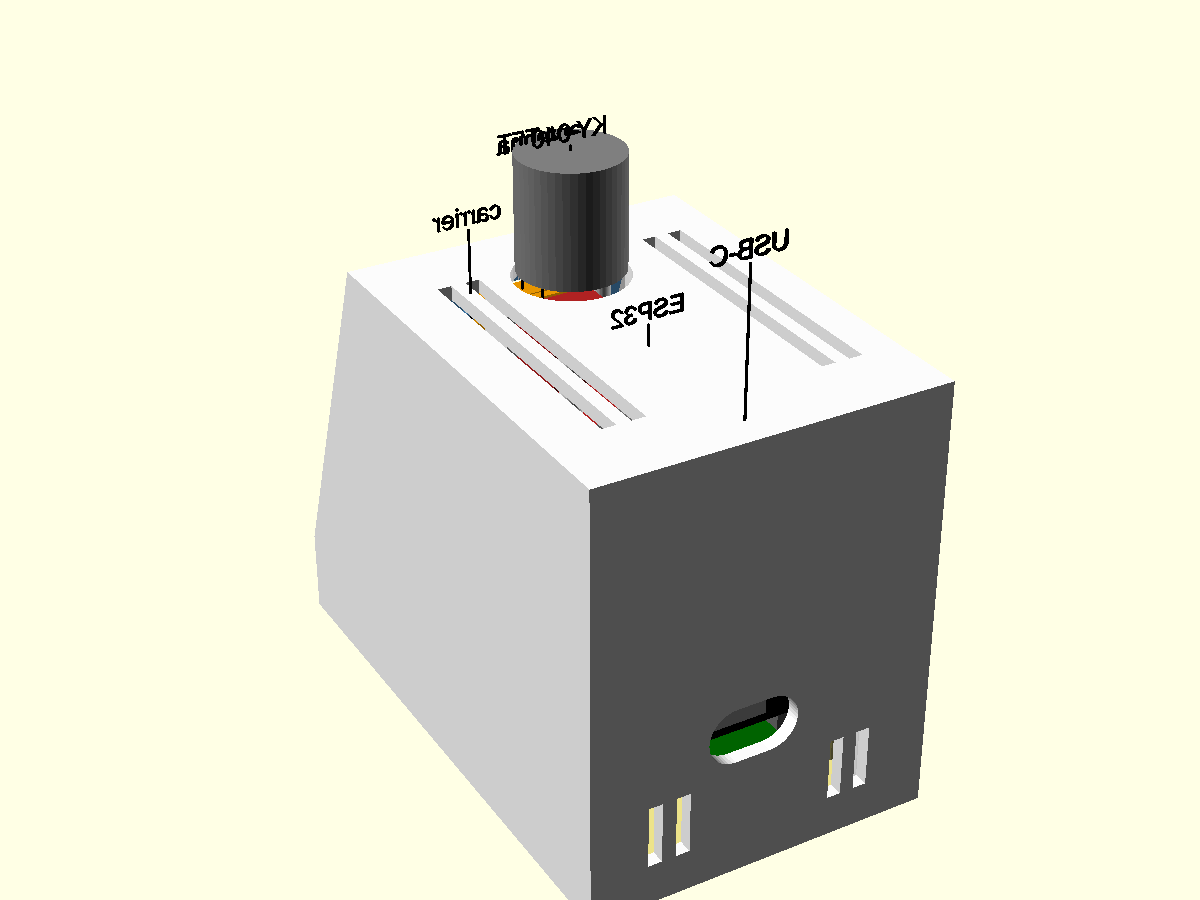
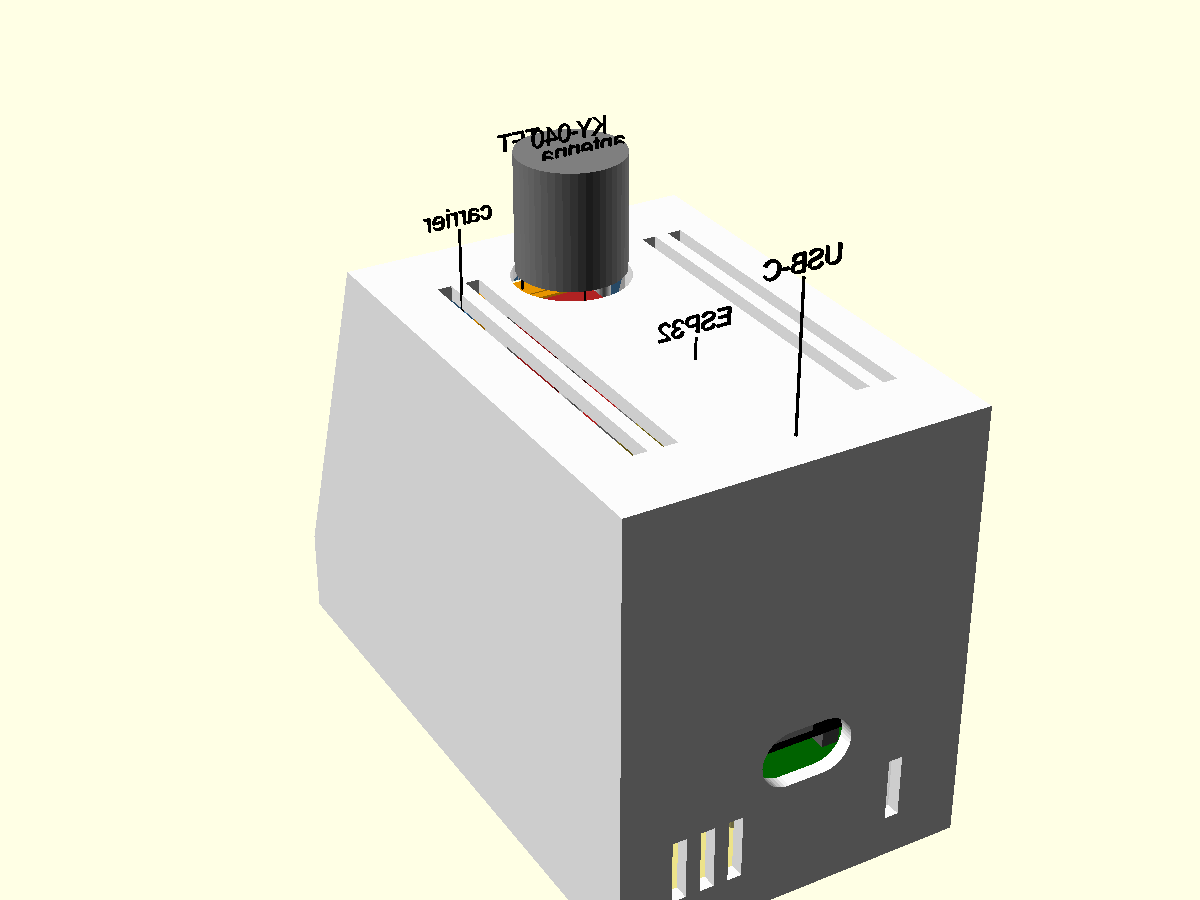
Enclosure: EPLZON 38.1 x 50.8 breadboard-style carrier, no JST sockets, case 89 deep
ESP32 headers in columns A and I (10 pitches, its pin rows), module wires
soldered into the joined rows. 88 is the minimum depth (TFT plug in front,
back bosses behind); 89 leaves 1 mm.

diff --git a/enclosure/cardboard.py b/enclosure/cardboard.py
@@ -187,17 +187,14 @@ def main():
     part(d["perf_x0"], d["perf_y0"], d["perf_w"], d["perf_d"], "carrier", dash, bottom=True, tx=d["perf_w"] - 11)
     part(d["esp_x0"], d["esp_y0"], d["esp_w"], d["esp_l"], "ESP32 (USB at the back)")
     p2.text(M + d["esp_x0"] + 1, fy(d["esp_y0"] + 2), "antenna", 2.5)
-    pp = d["p"]
-    for name, pins, row in (("TFT", 8, 1), ("KNOB", 5, 11)):  # JST-XH sockets, column 0 of the carrier
-        l = (pins - 1) * 2.5 + 4.9
-        cy = d["grid_y0"] + (row + (pins - 1) / 2) * pp
-        p2.rect(M + d["grid_x0"] - 2.9, fy(cy + l / 2), 5.8, l, **solid)
-        p2.text(M + d["grid_x0"] - 2.5, fy(cy - l / 2) - 1.2, name, 2)
+    cx, cy = d["perf_x0"] + d["perf_w"] / 2, d["perf_y0"] + d["perf_d"] / 2
+    for sy in (-1, 1):  # the carrier's M3 holes: standoffs under them
+        p2.circle(M + cx, fy(cy + sy * d["perf_m3"] / 2), 1.6, **solid)
     p2.text(M + 2, fy(-4) + 0.5, "FRONT", 3)
     notes(p2, M + W + 4, y, "FLOOR", ["cut the outer border only: the", "boxes inside are outlines, not holes",
                                        "top view, front at the bottom", "lay the real modules on it",
-                                       "solid: ESP32, JST sockets", "dashed: inside walls, screw posts,",
-                                       "carrier board", "the TFT's plug hangs down in", "front of the carrier"])
+                                       "solid: ESP32, the carrier's 2 M3", "holes; dashed: inside walls,",
+                                       "screw posts, carrier board", "the TFT's plug hangs down in", "front of the carrier"])
 
     out = HERE / ("cardboard.pdf" if NAME == "enclosure" else f"cardboard-{NAME}.pdf")
     write_pdf([p1, p2], out)

diff --git a/enclosure/README.md b/enclosure/README.md
@@ -1,7 +1,7 @@
 # Enclosure
 
 OpenSCAD model of the case, lifted from the desk display's
-(`../esp32-desk-display/enclosure/`, the v2 "cut" carrier) and written from
+(`../esp32-desk-display/enclosure/`) and written from
 `MEASUREMENTS.md`. Open `enclosure.scad` in OpenSCAD for the assembled view
 (modules shown as coloured stand-in blocks, see-through gold = plugged-in
 connectors). `-D cut=25` cuts the printed parts away left of x = 25.
@@ -25,7 +25,7 @@ enclosure/cardboard.py [cardboard mm, default 2]   # -> enclosure/cardboard.pdf 
 Two A4 pages of 1:1 templates, sized from the model (`part="dims"`): 2
 sides, front strip, screen panel (window + the TFT board's outline), top
 (knob hole + the KY-040's outline), back (USB hole), and a floor with the
-ESP32, carrier and JST sockets drawn on it (outlines, not holes). Print at
+ESP32, carrier and its screw holes drawn on it (outlines, not holes). Print at
 100% ("Actual size") and check the 50 mm bar with a ruler. Panels other
 than the sides are narrower by 2 × the cardboard thickness, so they fit
 between the sides. Checks: overall size on the desk, the screen's tilt and
@@ -34,7 +34,7 @@ TFT taped behind it.
 
 ## Layout (first draft, 2026-09-29)
 
-50 x 82 x 62 mm (W x D x H). A small wedge: the TFT, portrait, on a front
+50 x 89 x 62 mm (W x D x H). A small wedge: the TFT, portrait, on a front
 panel tilted 20° back over a 12 mm strip; the knob on top, centred behind
 the screen; USB-C out the back.
 
@@ -46,13 +46,19 @@ the screen; USB-C out the back.
 - **Knob**: KY-040 flat under the top, shaft end to the front, pins to the
   back, pushed up into two snap hooks against 4 pads (as on the desk
   display). The cap goes on from outside afterwards.
-- **Carrier**: the 4 x 6 cm Miuzei perfboard cut to 40 x 44 (17 hole rows),
-  on 4 standoffs (5 mm), M3 screws. ESP32 front-to-back in two 15-pin female headers
-  (8.5 mm), USB end at the back. Two JST-XH sockets in the free column left
-  of the ESP32: TFT (8-pin) at the front, KNOB (5-pin) behind it. 8 pins
-  at 2.5 mm on the 2.54 grid are 0.28 mm off at the ends: the pins take it.
+- **Carrier**: EPLZON 38.1 x 50.8 breadboard-style PCB (sizes from the
+  seller's drawing), on 2 standoffs (5 mm) at its middle M3 holes plus 4
+  rests under its M2 corner holes. ESP32 front-to-back in two 15-pin female
+  headers (8.5 mm) in columns A and I (10 pitches apart, as its pins), rows
+  3-17, USB end at the back. Each row's A-E and F-J holes are joined
+  underneath, so every ESP32 pin has 4 spare holes: the TFT and knob wires
+  are soldered into those (under the ESP32, before it's plugged in), with
+  Dupont housings on the module ends. No JST sockets: the joined rows
+  would short their pins. The carrier sets the depth: it has to stay behind
+  the TFT's plug and in front of the back screw bosses (88 is the minimum,
+  89 leaves 1 mm).
 - **Antenna**: the ESP32's antenna end is at the front, nothing above it;
-  the TFT cable runs ~5 mm below it.
+  the carrier's rows 1-2 are under it (copper pads only).
 - **Vents**: top slots left and right of the knob, over the ESP32; low slots
   on the back beside the USB; slots in the floor under the ESP32. No
   sensors, so no sensor bay: only the ESP32's warmth to let out.
@@ -80,8 +86,9 @@ self-tapping kit (M2 × 4/5/6, M2.3, M2.6, M3 × 4-6, pan head).
 - 4 × M2 × 4 self-tapping, pan head (TFT → posts; a 6 would poke out the
   front). The TFT's holes measured 1.79: try one screw first, else drill
   them to 2.0
-- 4 × M3 × 6 self-tapping, round head (carrier → standoffs; drill the board's corners 3 mm)
-- 2 × 15-pin female headers, JST-XH sockets + cables: 8-pin (TFT), 5-pin (knob)
+- 2 × M3 × 6 self-tapping, round head (carrier's middle holes → standoffs)
+- 2 × 15-pin female headers; cables to the TFT (8 wires) and knob (5 wires),
+  soldered on the carrier, Dupont housings on the module ends
 - 4 self-adhesive rubber feet
 
 ## Test print checklist (`test_front`)

diff --git a/CLAUDE.md b/CLAUDE.md
@@ -179,9 +179,11 @@ OpenSCAD in `enclosure/` (see its README), lifted from the desk
 display's `enclosure_v2.scad` ("cut" carrier) and its lessons (check fits
 on the perfboard's hole grid; sink solids into walls, not tangent). The
 user left the design to me ("just create something, we will work it
-out"): first draft is a 50 x 82 x 62 wedge, TFT portrait on a panel tilted
+out"): first draft is a 50 x 89 x 62 wedge, TFT portrait on a panel tilted
 20°, pins at the bottom (so `FLIP_180` stays 1), knob on top centred, USB
-out the back, ESP32 on a 40 x 44 perfboard carrier with JST-XH sockets.
+out the back, ESP32 on an EPLZON 38.1 x 50.8 breadboard-style carrier
+(chosen 2026-09-30 over cutting a Miuzei 4 x 6: headers in columns A and I,
+module wires soldered into the joined rows, no JST sockets).
 `enclosure/export.sh` = clash check (printed parts vs stand-ins, and
 stand-ins incl. plugs vs each other, and fails on undefined-variable
 warnings) + STLs + renders. TFT measured 2026-09-29 (`MEASUREMENTS.md`,
